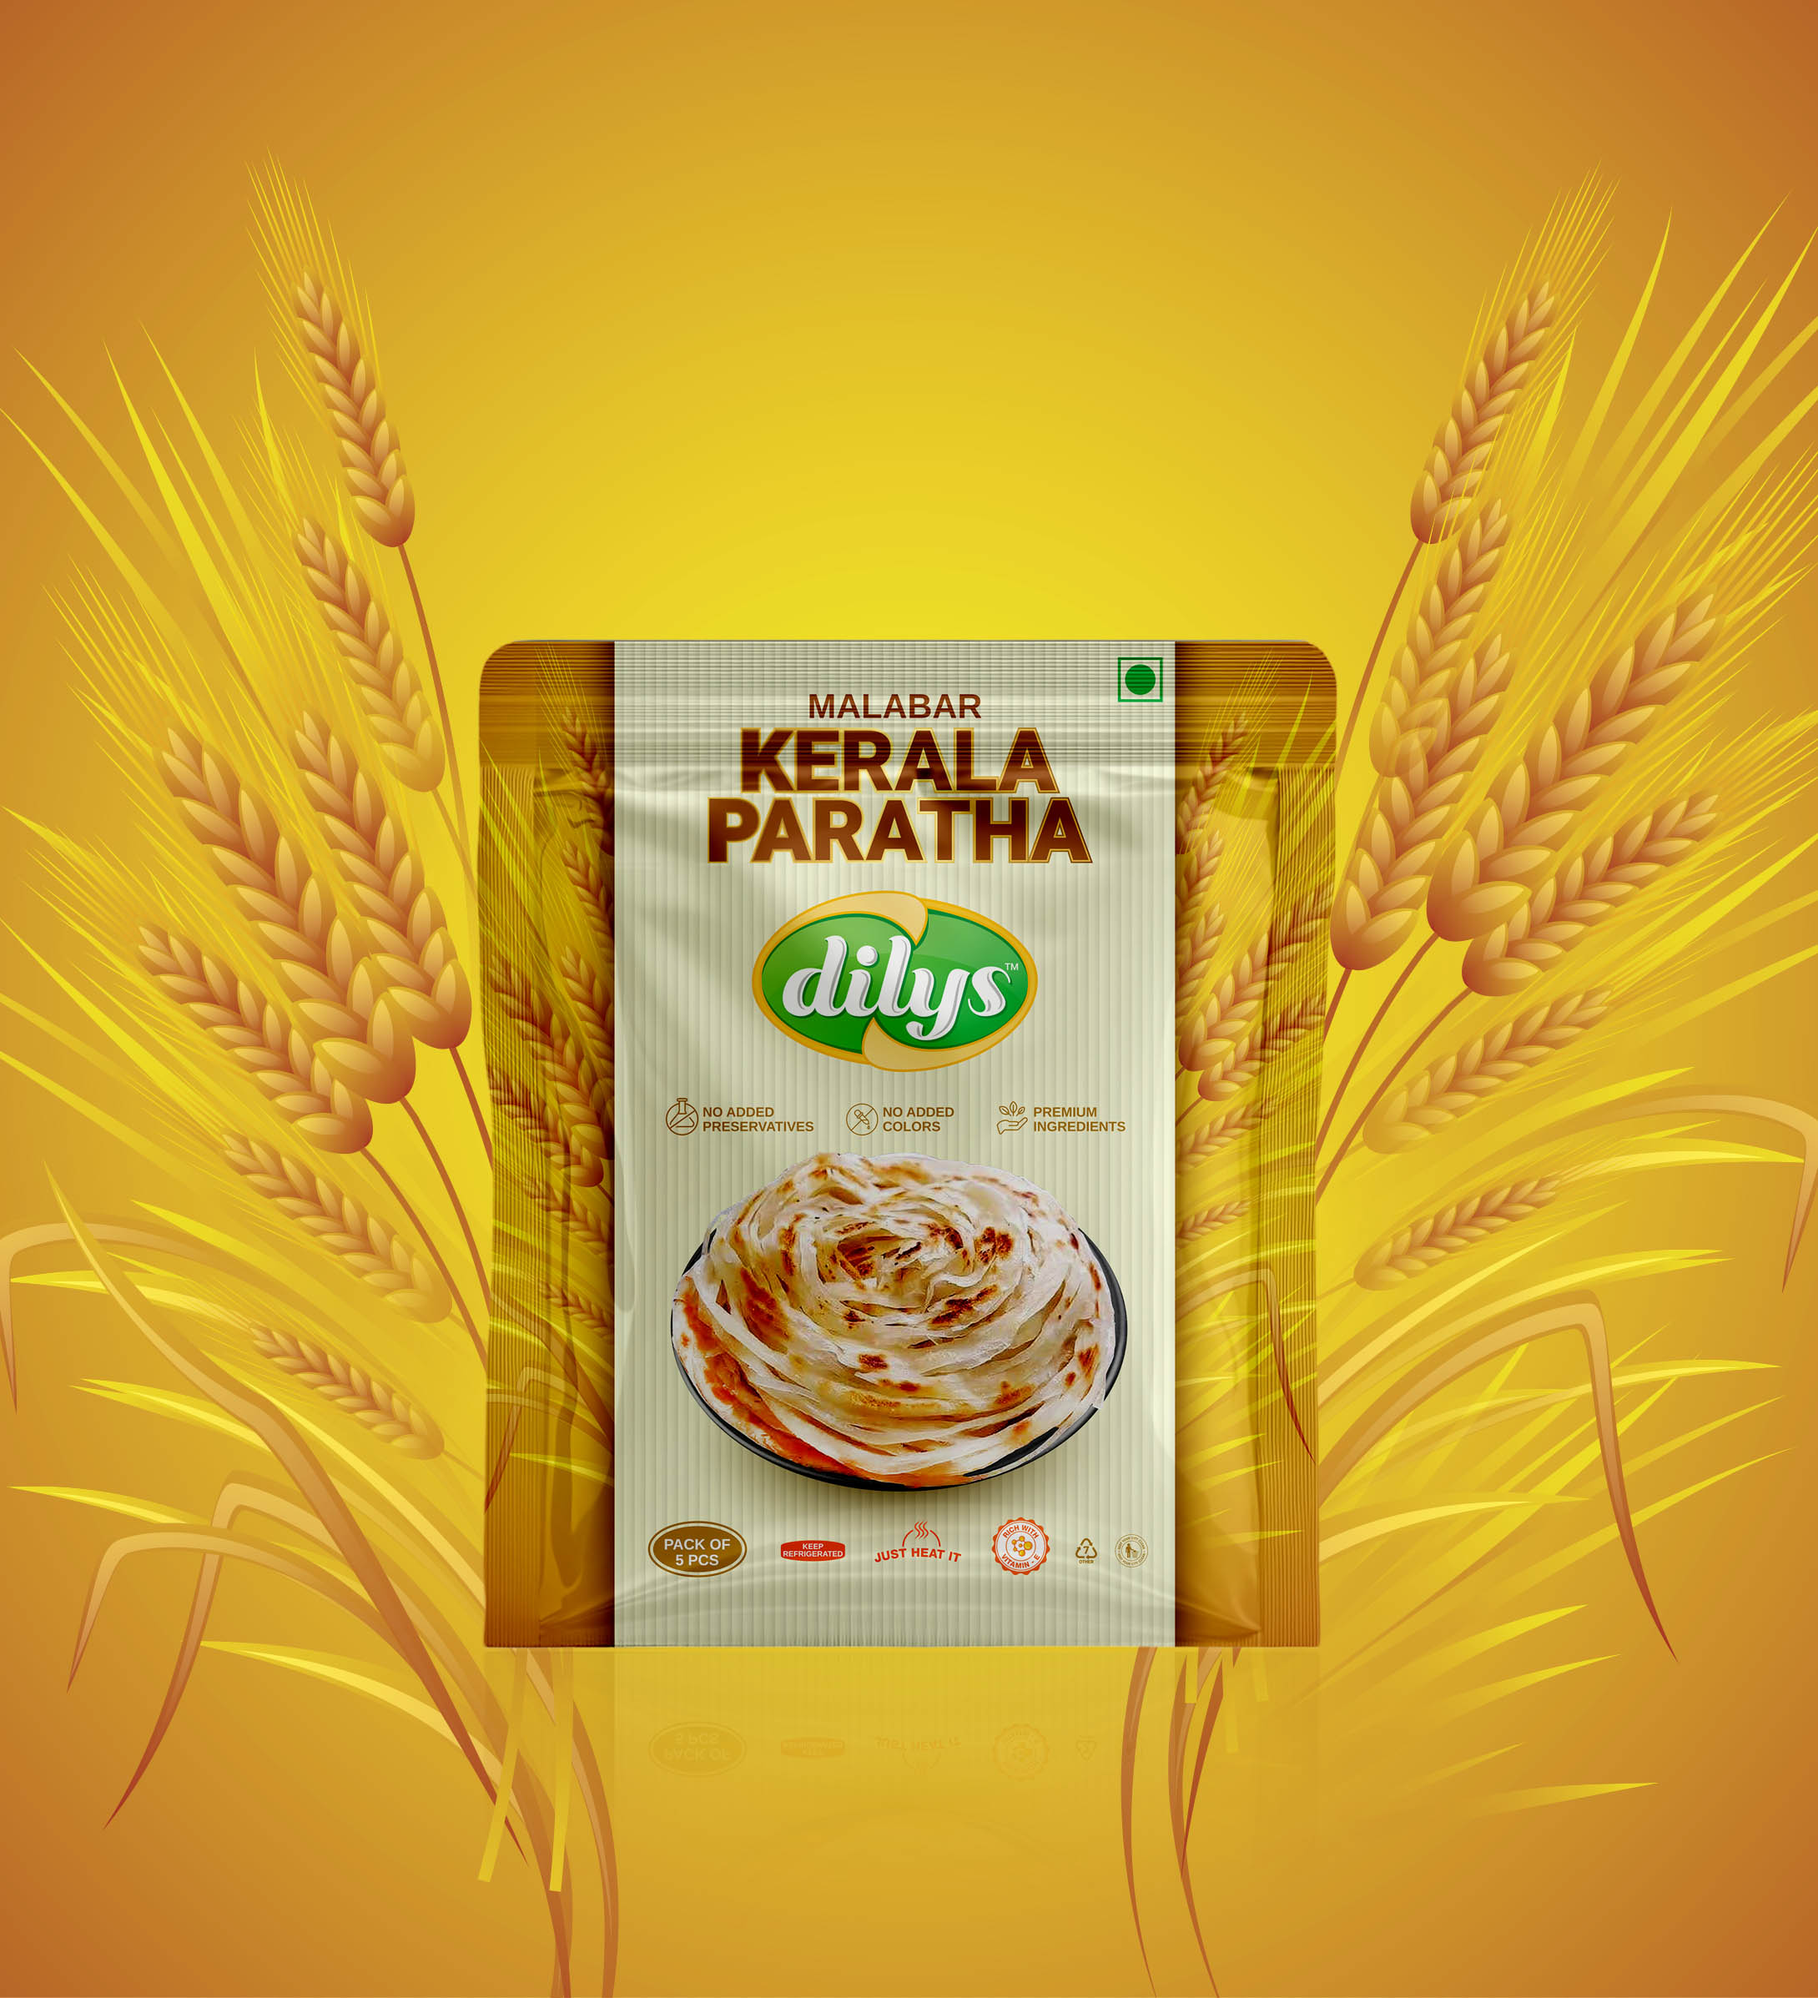
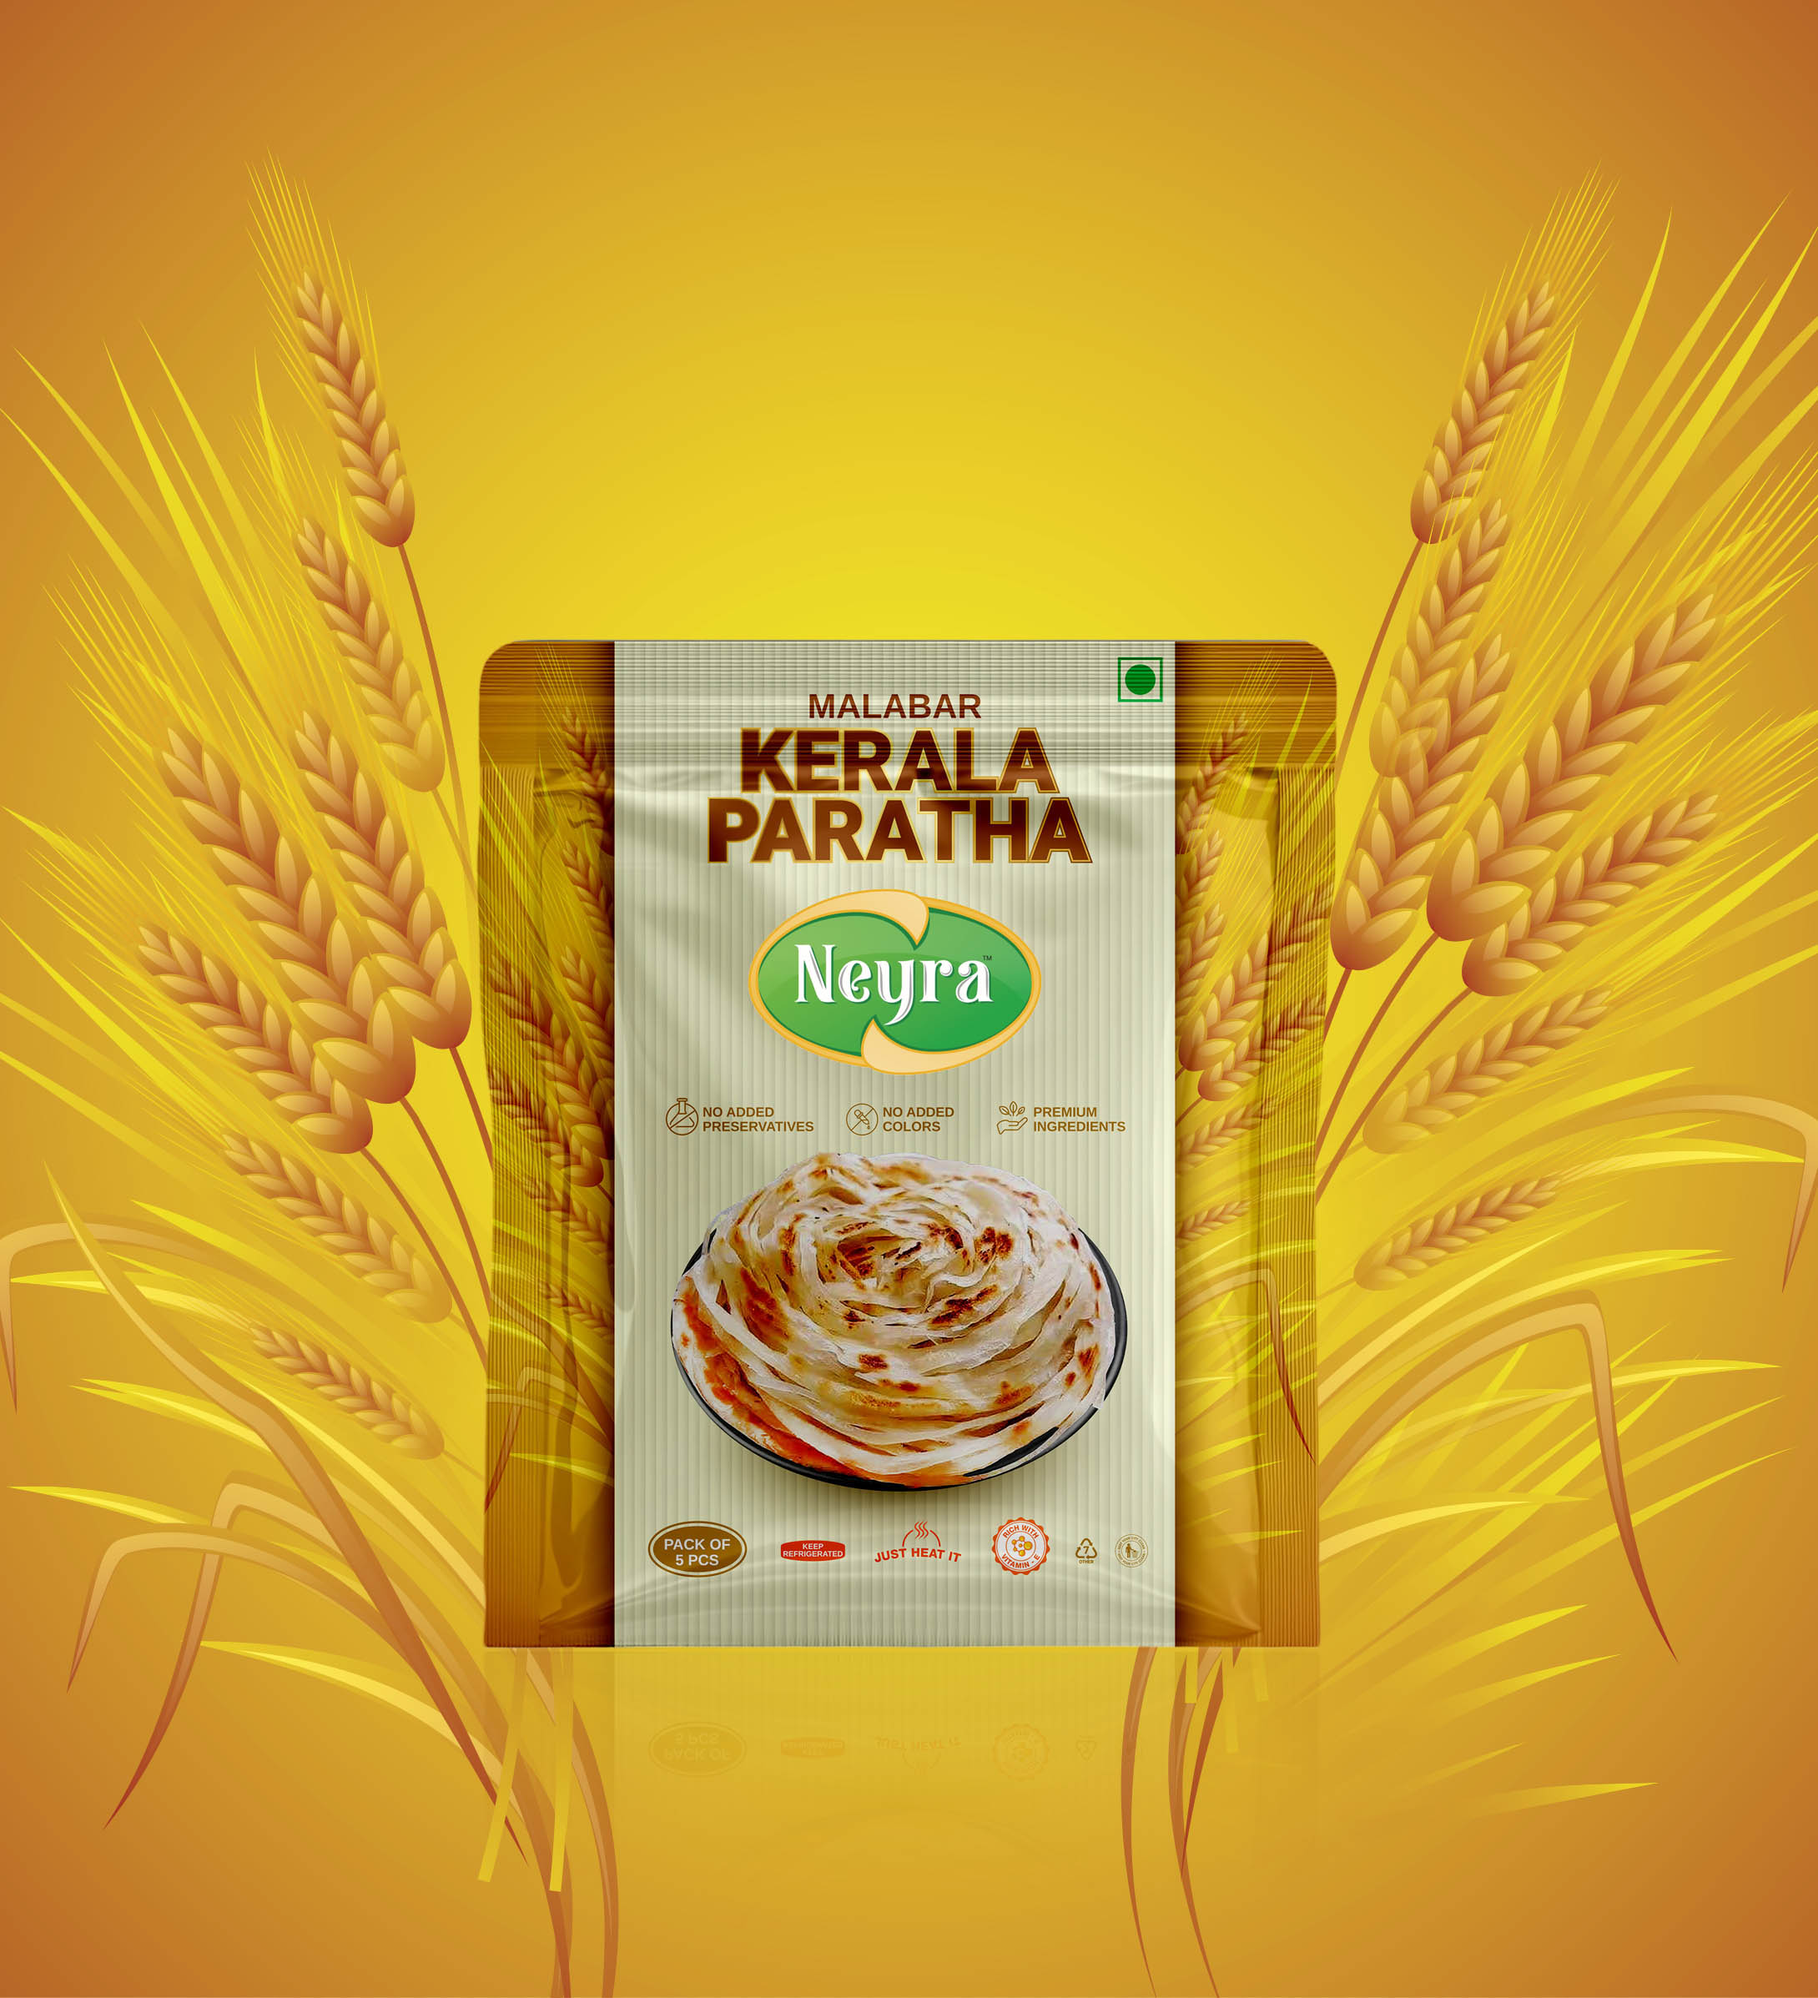
SDFSDF

Changed region(s): [[0.4057, 0.4326, 0.5929, 0.5562]]

diff --git a/index.html b/index.html
@@ -8,7 +8,7 @@
     <!--- basic page needs
     ================================================== -->
     <meta charset="utf-8">
-    <title>dilys</title>
+    <title>Neyra</title>
     <meta name="description" content="">
     <meta name="author" content="">
 
@@ -74,7 +74,7 @@
             <a href="#0" class="header-nav__close" title="close"><span>Close</span></a>
 
             <div class="header-nav__content">
-                <h3>dilys</h3>
+                <h3>Neyra</h3>
                 
                 <ul class="header-nav__list">
                     <li class="current"><a class="smoothscroll"  href="index.html" title="home">Home</a></li>
@@ -125,7 +125,7 @@
 
             <div class="row home-content__main">
 
-                <h3>Welcome to Dilys</h3>
+                <h3>Welcome to Neyra</h3>
                 <h3>ROLL IT, DIP IT, LOVE IT.</h3>
                 <h1 style="color: #39b54a;">
                     "LAYERS THAT <br>
@@ -143,7 +143,7 @@
                         Connect With Us
                     </a>
                     <a href="#about" class="smoothscroll btn btn--stroke">
-                        About dilys
+                        About Neyra
                     </a>
                 </div>
 
@@ -191,11 +191,11 @@
         <div class="row about-desc" data-aos="fade-up">
             <div class="col-full">
                 <p>
-                From a passion to a own manufacturing unit <span style="font-weight: bold;">Dilys</span> has a
+                From a passion to a own manufacturing unit <span style="font-weight: bold;">Neyra</span> has a
 sophisticated manufacturing plant specifically designed to
 produce parathas at a large scale,
                 </p>
-                <p>At <span style="font-weight: bold;">Dilys,</span> we prioritize freshness an quality without compromising on taste and set a new standard in the production of parathas, catering to consumers who seek an authentic taste. With the varieties and flavours <span style="font-weight: bold;">Dilys</span> offers
+                <p>At <span style="font-weight: bold;">Neyra,</span> we prioritize freshness an quality without compromising on taste and set a new standard in the production of parathas, catering to consumers who seek an authentic taste. With the varieties and flavours <span style="font-weight: bold;">Neyra</span> offers
 a complete experience for paratha lovers.</p>
             </div>
         </div> <!-- end about-desc -->
@@ -226,7 +226,7 @@ a complete experience for paratha lovers.</p>
                 <p>
 We come from the Malabar region, where Malabar Paratha is more than just food — it’s a cherished tradition and a part of our childhood memories. The nostalgic taste, flaky layers, and rich homemade flavor inspired us to share this authentic experience with the world.
                 </p>
-                <p>At <span style="font-weight: bold;">Dilys,</span>  our mission is simple: to make Malabar Paratha easily accessible without compromising on quality or taste. Every bite delivers the true, time-honored flavors of Malabar.</p>
+                <p>At <span style="font-weight: bold;">Neyra,</span>  our mission is simple: to make Malabar Paratha easily accessible without compromising on quality or taste. Every bite delivers the true, time-honored flavors of Malabar.</p>
             </div>
         </div>
             </div>
@@ -330,8 +330,6 @@ lovers. Order your parottas according to your needs!</p>
 
     </section>
 
-
-    
 
 
 
@@ -482,7 +480,7 @@ This temperature ensures: Even browning, crispy outer layers, proper heating thr
       
             <a href="mailto:sales@hatuae.com" class="contact-card dark" data-scroll-reveal="enter bottom move 50px over 0.6s after 0.4s" >
               <h3 class="py-2" style="color: #ffffff;">Email Us</h3>
-              <p>We reply within 24 hours: <br><strong>sales@dilysfood.com</strong></p>
+              <p>We reply within 24 hours: <br><strong>sales@neyrafoods.com</strong></p>
               <img src="images/arrow1.png" alt="Arrow" class="arrow-img" />
             </a>
       
@@ -509,17 +507,17 @@ This temperature ensures: Even browning, crispy outer layers, proper heating thr
             <div class="col-six tab-full left footer-desc">
 
                 <div class="footer-logo"></div>
-                DILLYS FOODS <br>
+                NEYRA FOODS <br>
                Munirka Village, New Delhi.
 
             </div>
 
             <div class="col-six tab-full right footer-subscribe">
-                <p>Dilys Group85-A/1,
+                <p>Neyra Group85-A/1,
                     G/F,R/S, Vill Munirka, <br> New Delhi, 110067, India</p>
                 <p>Phone: +919911233308 <br>
                     &nbsp;&nbsp;&nbsp;&nbsp;&nbsp;&nbsp;&nbsp;&nbsp;&nbsp;&nbsp;&nbsp; +919911233309 <br>
-                    Email: sales@dilysfood.com</p>
+                    Email: sales@neyrafoods.com</p>
 
 
             </div>
